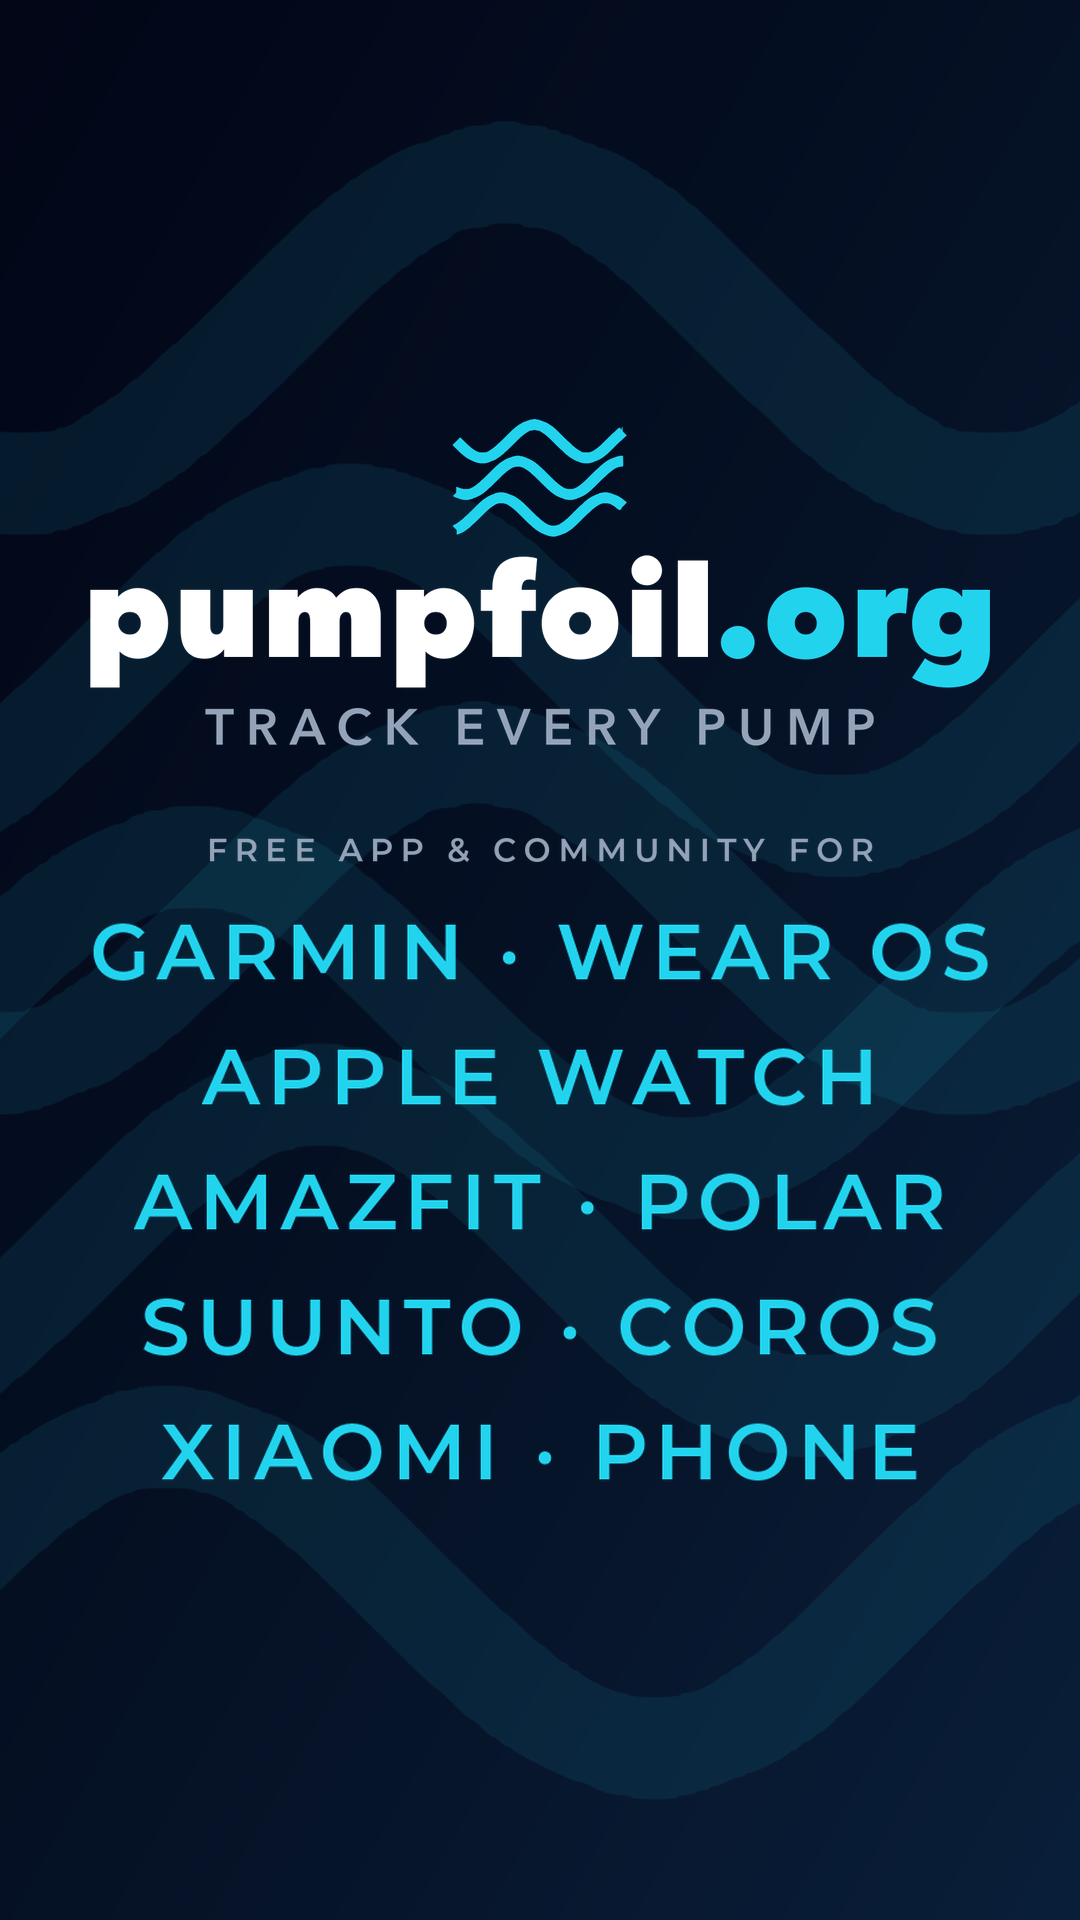
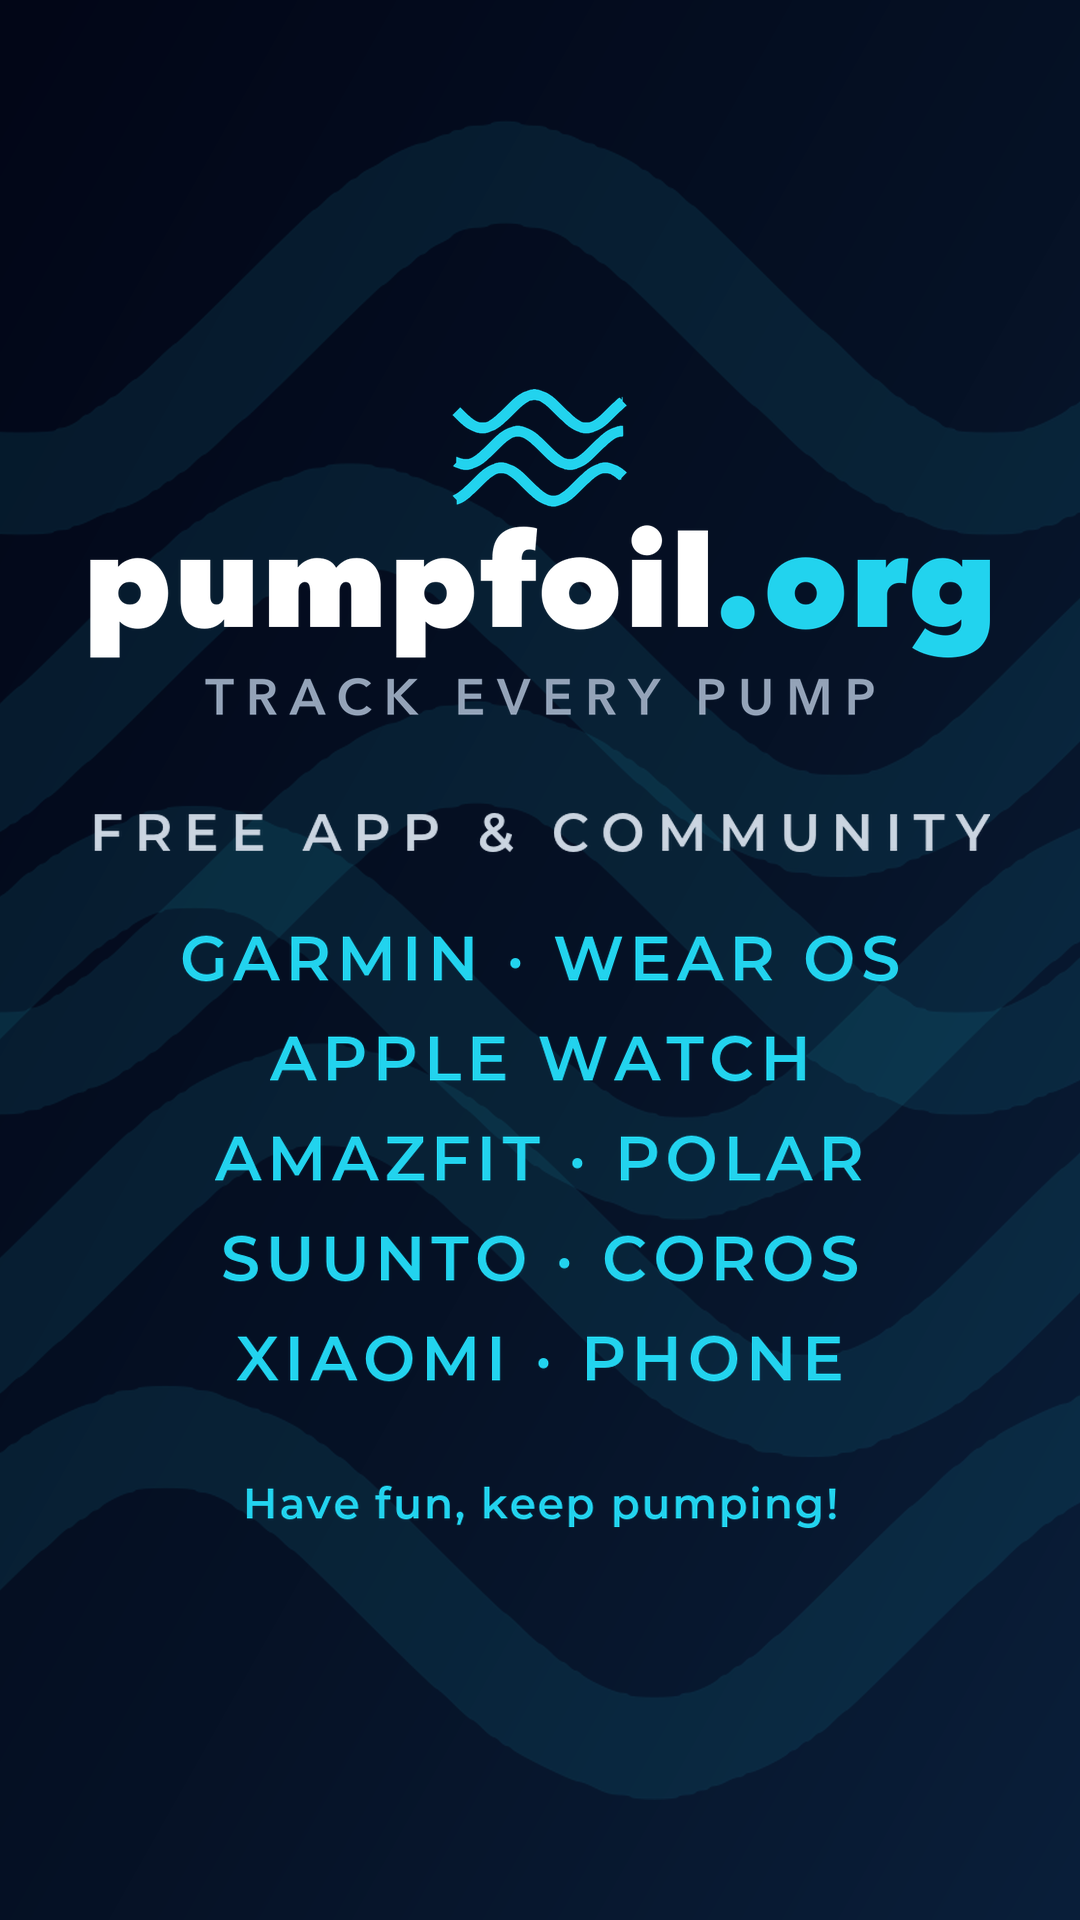
Endcards: „FREE APP & COMMUNITY" auf Wortmarken-Breite, Marken kleiner, Motto darunter
Drei Wuensche von Jan (04.09.) in einem Zug: das „FOR" faellt weg, die Zeile steht jetzt
genauso breit wie „pumpfoil.org" darueber — die beiden bilden eine Achse und die Aussage
traegt. Dafuer stehen die Plattform-Namen auf 80 % der Breite, also rund ein Fuenftel
kleiner; sie sollen lesbar sein, aber nicht die Hauptsache.

Darunter steht jetzt unser Gruss „Have fun, keep pumping!" — in Marken-Cyan und in
gemischter Schreibweise, waehrend alles andere in Versalien steht. Dadurch liest er sich
wie ein Zuruf und nicht wie eine weitere Ueberschrift, und die Endcard endet so, wie auch
jede Nachricht an einen Nutzer endet.

Claude-Session: https://claude.ai/code/session_014ScY9MsqR76xh62UDbMKg1

Changed region(s): [[0.0611, 0.1875, 0.9167, 0.8125]]

diff --git a/brand/master/endcard.py b/brand/master/endcard.py
@@ -32,9 +32,12 @@ DUNKEL = ("#020617", "#061226", "#0a1f3a")
 CYAN_HELL = "#0e7490"
 # Einleitung ueber der Plattform-Liste. Ohne sie steht dort nur eine Reihe Markennamen, und
 # niemand sieht, dass es um eine App geht (Jan, 04.09.). Mit ihr liest sich die Liste als Satz:
-# „FREE APP & COMMUNITY FOR — GARMIN · WEAR OS · …". Englisch wie die Tagline, weil die Endcard
+# ueber der Liste. Englisch wie die Tagline, weil die Endcard
 # laeuft; „FREE" stimmt und ist das staerkste Wort, das wir ehrlich sagen koennen (AGPL-3.0).
-APP_ZEILE = "FREE APP & COMMUNITY FOR"
+APP_ZEILE = "FREE APP & COMMUNITY"
+# Unser Gruss, unuebersetzt — so steht er in jeder Nutzer-Nachricht und am Ende jeder
+# Ankuendigung. Auf der Endcard ist er die Unterschrift unter dem Ganzen (Jan, 04.09.).
+MOTTO = "Have fun, keep pumping!"
 
 
 def verlauf(farben: tuple[str, str, str]) -> Image.Image:
@@ -74,14 +77,17 @@ def endcard(theme: str) -> Image.Image:
     # lesen (Jan, 04.09.). Weniger Zeichen je Zeile heisst groessere Schrift bei gleicher Breite.
     # Die Quelle bleibt dieselbe wie im Banner, nur die Umbruch-Regel unterscheidet sich.
     zeilen = [banner.subline_image(z, px=64, tracking=6) for z in banner.subline_zeilen(2)]
-    faktor = breite / max(z.width for z in zeilen)
+    # 80 % der Breite: die Markennamen sollen lesbar sein, aber die Zeile „FREE APP & COMMUNITY"
+    # darueber traegt die Aussage — sie steht auf voller Breite (Jan, 04.09.).
+    faktor = (breite * 0.80) / max(z.width for z in zeilen)
     # Die Einleitung in derselben Schrift, aber kleiner und ruhiger als die Marken darunter —
     # sie soll fuehren, nicht mit ihnen konkurrieren.
     einleitung = banner.subline_image(APP_ZEILE, px=44, tracking=10)
-    ein_faktor = (breite * 0.74) / einleitung.width
+    # Genauso breit wie die Wortmarke darueber — die beiden bilden dann eine Achse.
+    ein_faktor = breite / einleitung.width
     einleitung = einleitung.resize((round(einleitung.width * ein_faktor),
                                     round(einleitung.height * ein_faktor)), Image.LANCZOS)
-    grau = "#64748b" if hell else "#94a3b8"
+    grau = "#475569" if hell else "#cbd5e1"     # kraeftiger, weil die Zeile jetzt traegt
     r, g, b = banner._hex(grau)
     voll = Image.new("RGBA", einleitung.size, (r, g, b, 255))
     voll.putalpha(einleitung.split()[3])
@@ -96,11 +102,25 @@ def endcard(theme: str) -> Image.Image:
             voll.putalpha(z.split()[3])
             zeilen[i] = voll
 
+    # Motto als Unterschrift: in Marken-Cyan, gemischte Schreibweise (alles andere steht in
+    # Versalien) — dadurch liest es sich wie ein Zuruf und nicht wie eine weitere Ueberschrift.
+    motto = banner.subline_image(MOTTO, px=44, tracking=2)
+    m_faktor = (breite * 0.66) / motto.width
+    motto = motto.resize((round(motto.width * m_faktor), round(motto.height * m_faktor)),
+                         Image.LANCZOS)
+    if hell:
+        r, g, b = banner._hex(CYAN_HELL)
+        voll_m = Image.new("RGBA", motto.size, (r, g, b, 255))
+        voll_m.putalpha(motto.split()[3])
+        motto = voll_m
+
     abstand = 84                                   # Lockup -> Einleitung
     nach_einleitung = round(einleitung.height * 0.85)
     zeilenabstand = round(zeilen[0].height * 0.30)  # Luft zwischen den Plattform-Zeilen
+    vor_motto = round(motto.height * 1.5)
     block_h = (lock.height + abstand + einleitung.height + nach_einleitung
-               + sum(z.height for z in zeilen) + zeilenabstand * (len(zeilen) - 1))
+               + sum(z.height for z in zeilen) + zeilenabstand * (len(zeilen) - 1)
+               + vor_motto + motto.height)
     y = (H - block_h) // 2
     grund.alpha_composite(lock, ((W - lock.width) // 2, y))
     y += lock.height + abstand
@@ -109,6 +129,8 @@ def endcard(theme: str) -> Image.Image:
     for z in zeilen:
         grund.alpha_composite(z, ((W - z.width) // 2, y))
         y += z.height + zeilenabstand
+    y += vor_motto - zeilenabstand
+    grund.alpha_composite(motto, ((W - motto.width) // 2, y))
     return grund.convert("RGB")
 
 
